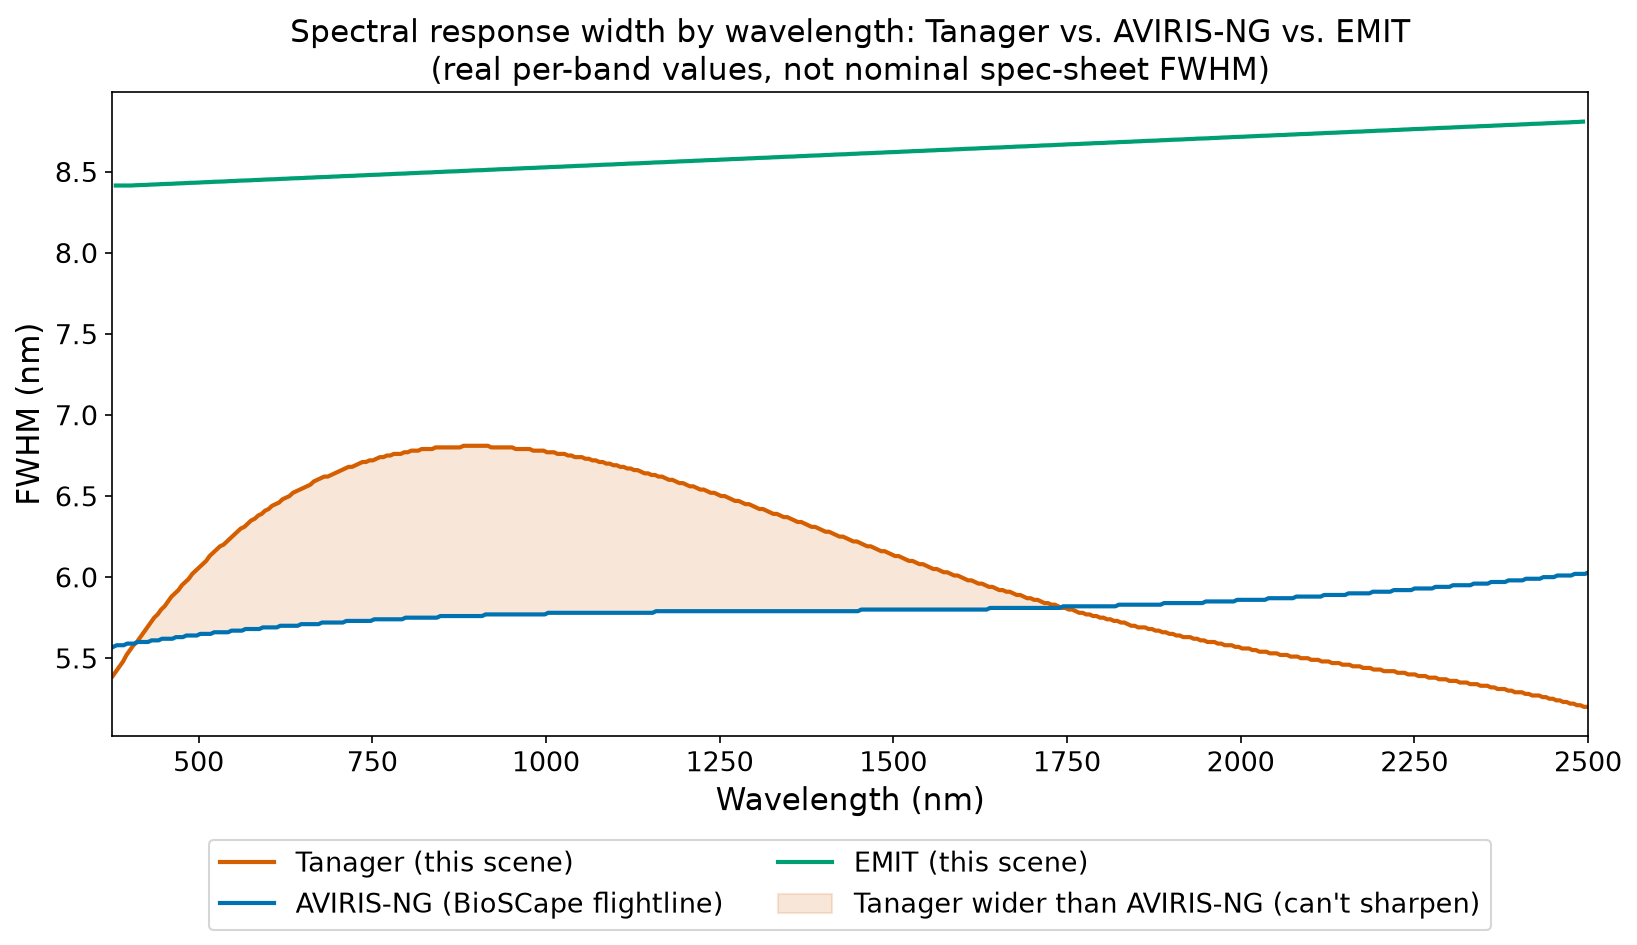
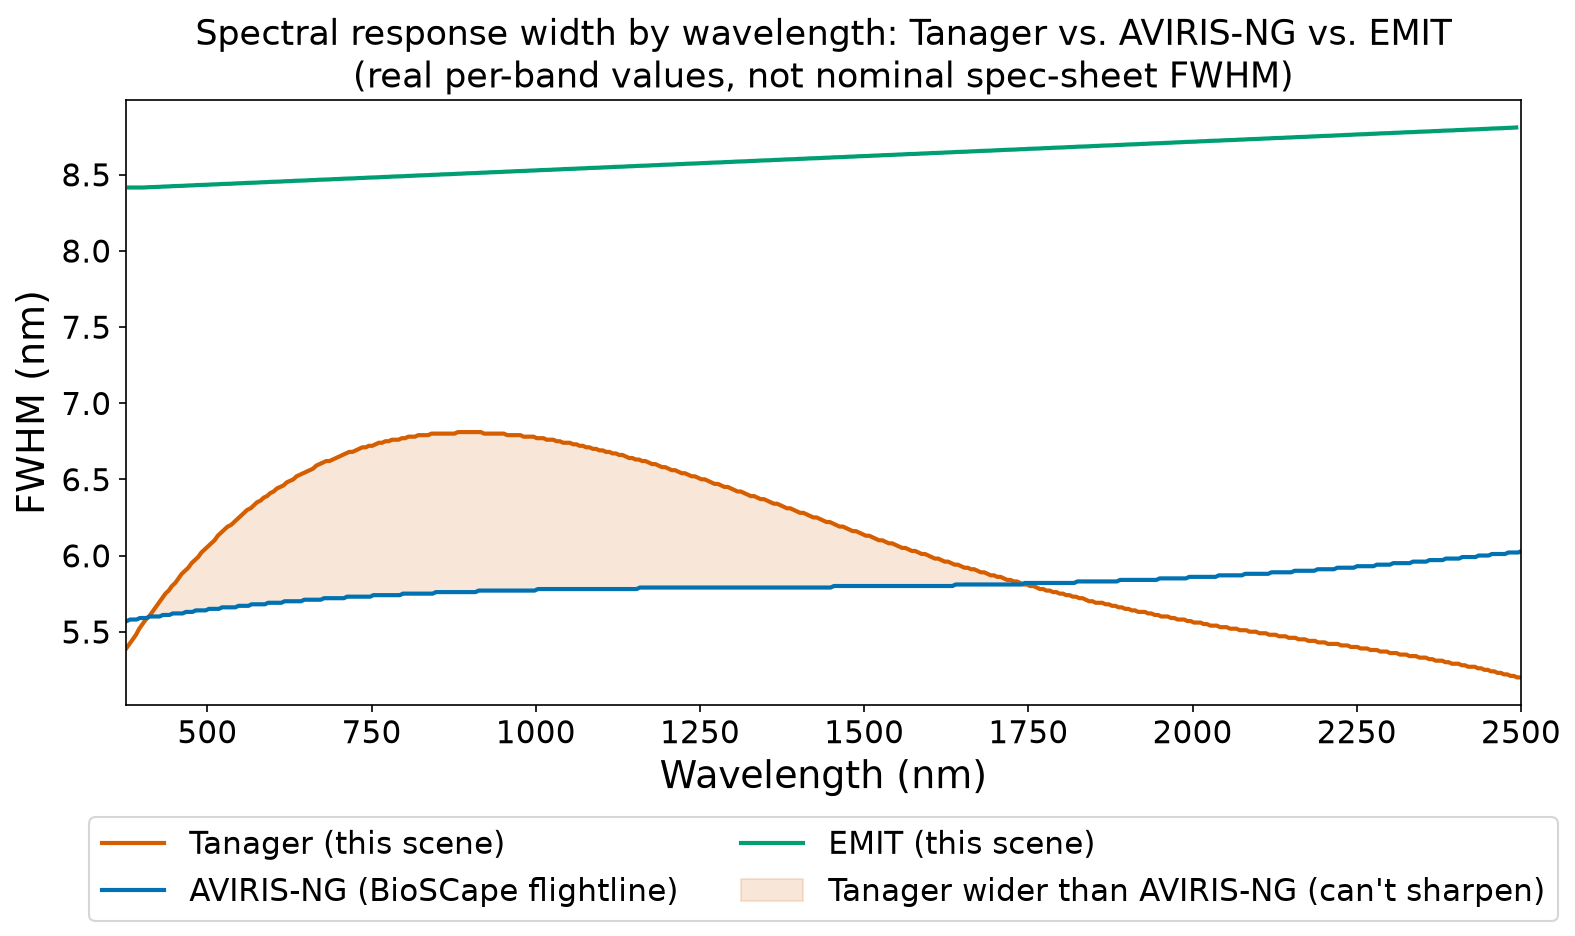
Drop LMA from California figure; bigger fonts; simpler north arrow
California trait maps (Figure 8) drop LMA (doesn't contribute to the
report's story) and move from a 1x5 row to a 2x2 grid of 4 traits,
larger and more legible. Bumped font sizes further across the FWHM and
California figures per Henry's review. Ternary map's north arrow
switched from a thick filled arrow to a simple solid triangle, after
comparing a few style options with Henry. Also removed the stale
word-count checklist item and the now-orphaned LMA aside in Section 3.

diff --git a/code/step13_california_sidebyside_maps.py b/code/step13_california_sidebyside_maps.py
@@ -1,7 +1,10 @@
-"""California SHIFT-model trait maps, all 5 traits side by side in one
-figure -- companion to step11 (Cape), but single-sensor (no EMIT/AVIRIS-NG
-counterpart exists for this scene), so this is a 1xN grid rather than a
-2-column comparison.
+"""California SHIFT-model trait maps, 4 traits in a 2x2 grid -- companion
+to step11 (Cape), but single-sensor (no EMIT/AVIRIS-NG counterpart exists
+for this scene).
+
+LMA was dropped (2026-08-28, Henry's review) -- it doesn't contribute to
+the report's overall story and isn't discussed anywhere else in the
+Cape/California comparison.
 
 No ground-truth check has been run for California in this project (see
 CLAUDE.md / report Section 7) -- unlike the Cape maps, there's no
@@ -17,7 +20,7 @@ not the absolute values.
 
 Veg-masked via step9's veg_mask (same fix as step11/12 -- apply the real
 NDVI-derived mask, not each trait's own diagnostic range_mask, so masking
-is consistent across all 5 panels).
+is consistent across all 4 panels).
 """
 import numpy as np
 import rasterio
@@ -37,7 +40,6 @@ TRAITS = [
     ("Calcium", "calcium", ("#f1eef6", "#74a9cf", "#023858")),
     ("Lignin", "lignin", ("#ffffd4", "#fe9929", "#8c2d04")),
     ("Cellulose", "cellulose", ("#fde725", "#21918c", "#440154")),
-    ("LMA", "LMA", ("#fcfdbf", "#f1605d", "#280b53")),
 ]
 
 
@@ -59,13 +61,11 @@ def load_masked(stem, veg_mask):
 
 def main():
     veg_mask = load_veg_mask()
-    ncols = 3
+    ncols = 2
     nrows = 2
-    fig, axes = plt.subplots(nrows, ncols, figsize=(6 * ncols, 5.2 * nrows))
-    fig.subplots_adjust(hspace=0.25, wspace=0.35, top=0.86)
+    fig, axes = plt.subplots(nrows, ncols, figsize=(7.5 * ncols, 6.2 * nrows))
+    fig.subplots_adjust(hspace=0.25, wspace=0.3, top=0.86)
     axes = axes.flatten()
-    for ax in axes[len(TRAITS):]:
-        ax.axis("off")
 
     for ax, (label, stem, colors) in zip(axes, TRAITS):
         arr = load_masked(stem, veg_mask)
@@ -84,10 +84,10 @@ def main():
         cmap.set_bad("lightgray")
         norm = BoundaryNorm([-0.5, 0.5, 1.5, 2.5], cmap.N)
         im = ax.imshow(binned, cmap=cmap, norm=norm)
-        ax.set_title(label, fontsize=16)
+        ax.set_title(label, fontsize=20)
         ax.set_xticks([]); ax.set_yticks([])
         cbar = fig.colorbar(im, ax=ax, fraction=0.046, pad=0.04, ticks=[0, 1, 2])
-        cbar.ax.set_yticklabels(["Low", "Med", "High"], fontsize=13)
+        cbar.ax.set_yticklabels(["Low", "Med", "High"], fontsize=16)
 
         print(f"{label}: n_valid={valid.size}, tercile cuts at {lo_cut:.2f}/{hi_cut:.2f} "
               f"(scene-relative, not an absolute/validated scale)")
@@ -96,7 +96,7 @@ def main():
         "California (SHIFT models) predicted trait patterns, 2025-04-07\n"
         "Relative Low/Med/High within this scene only -- no field validation for California in this project;\n"
         "gray = non-vegetated. Not a numerically validated product.",
-        fontsize=15,
+        fontsize=17,
     )
     out_path = FIGURES_DIR + "california_sidebyside_maps.png"
     fig.savefig(out_path, dpi=150, bbox_inches="tight")

diff --git a/code/step17_ternary_report_figure.py b/code/step17_ternary_report_figure.py
@@ -13,6 +13,7 @@ import matplotlib
 matplotlib.use("Agg")
 import matplotlib.pyplot as plt
 import matplotlib.patheffects
+from matplotlib.patches import Polygon
 
 TERNARY_TIF = (
     "/Volumes/Enspec/projects/BioScape/tanager_competition/trait_outputs/"
@@ -47,17 +48,21 @@ def main():
     ax.plot([margin_x, margin_x + bar_px], [bar_y, bar_y], color="black",
              linewidth=1, solid_capstyle="butt")
     ax.text(margin_x + bar_px / 2, bar_y - height * 0.015, f"{SCALE_BAR_M // 1000} km",
-            color="white", ha="center", va="bottom", fontsize=11, fontweight="bold",
+            color="white", ha="center", va="bottom", fontsize=14, fontweight="bold",
             path_effects=[matplotlib.patheffects.withStroke(linewidth=2.5, foreground="black")])
 
-    # North arrow: top-right.
+    # North arrow: simple solid triangle, top-right, with N below the base.
     arrow_x = width * 0.94
-    arrow_y_tail = height * 0.16
-    arrow_y_head = height * 0.04
-    ax.annotate("", xy=(arrow_x, arrow_y_head), xytext=(arrow_x, arrow_y_tail),
-                arrowprops=dict(facecolor="white", edgecolor="black", width=4, headwidth=12, headlength=10))
-    ax.text(arrow_x, arrow_y_tail + height * 0.015, "N", color="white", ha="center",
-            va="top", fontsize=13, fontweight="bold",
+    arrow_top = height * 0.04
+    arrow_base = height * 0.14
+    arrow_half_width = width * 0.02
+    triangle = Polygon(
+        [(arrow_x, arrow_top), (arrow_x - arrow_half_width, arrow_base), (arrow_x + arrow_half_width, arrow_base)],
+        closed=True, facecolor="white", edgecolor="black", linewidth=1.5,
+    )
+    ax.add_patch(triangle)
+    ax.text(arrow_x, arrow_base + height * 0.015, "N", color="white", ha="center",
+            va="top", fontsize=16, fontweight="bold",
             path_effects=[matplotlib.patheffects.withStroke(linewidth=2.5, foreground="black")])
 
     fig.savefig(OUT_PATH, dpi=150, bbox_inches="tight", pad_inches=0.05)

diff --git a/code/step16_fwhm_comparison.py b/code/step16_fwhm_comparison.py
@@ -65,15 +65,15 @@ def main():
     ax.fill_between(tan_wl, tan_fwhm, np.interp(tan_wl, av_wl, av_fwhm),
                      where=(tan_fwhm > np.interp(tan_wl, av_wl, av_fwhm)),
                      color="#d55e00", alpha=0.15, label="Tanager wider than AVIRIS-NG (can't sharpen)")
-    ax.set_xlabel("Wavelength (nm)", fontsize=15)
-    ax.set_ylabel("FWHM (nm)", fontsize=15)
+    ax.set_xlabel("Wavelength (nm)", fontsize=18)
+    ax.set_ylabel("FWHM (nm)", fontsize=18)
     ax.set_title(
         "Spectral response width by wavelength: Tanager vs. AVIRIS-NG vs. EMIT\n"
         "(real per-band values, not nominal spec-sheet FWHM)",
-        fontsize=15,
+        fontsize=17,
     )
-    ax.tick_params(axis="both", labelsize=13)
-    ax.legend(loc="upper center", bbox_to_anchor=(0.5, -0.14), ncol=2, fontsize=13)
+    ax.tick_params(axis="both", labelsize=15)
+    ax.legend(loc="upper center", bbox_to_anchor=(0.5, -0.16), ncol=2, fontsize=15)
     ax.set_xlim(376, 2500)
     fig.tight_layout()
     fig.savefig(OUT_PATH, dpi=150, bbox_inches="tight")

diff --git a/writeup/report_draft.md b/writeup/report_draft.md
@@ -156,10 +156,7 @@ carries its own known high bias, discussed above), but Calcium and
 Cellulose are also plausibly biologically linked: calcium cross-links
 pectin in the cell wall matrix via calcium-pectate bridges, alongside
 cellulose's fibrillar backbone, so pairing Calcium with Lignin/Nitrogen
-here is a defensible choice rather than an arbitrary one. LMA was
-dropped from the Cape analysis entirely — it produced physically
-impossible negative values across most of the scene (Section 7 explains
-the fix that solved this for California).
+here is a defensible choice rather than an arbitrary one.
 
 ![Ternary composite: Nitrogen (red) / Lignin (green) / Calcium (blue), Tanager, field-referenced ranges](figures/ternary_field_referenced.png)
 
@@ -295,9 +292,9 @@ chemistry (same platform as BioSCape, an entirely separate campaign and
 region) — to a Tanager scene over the SHIFT study area, using the same
 FWHM-matching pipeline built for the Cape.
 
-![California SHIFT-model predicted trait patterns, all 5 traits, Low/Med/High](figures/california_sidebyside_maps.png)
+![California SHIFT-model predicted trait patterns, all 4 traits, Low/Med/High](figures/california_sidebyside_maps.png)
 
-*Figure 8. California (SHIFT models), all 5 traits, relabeled to
+*Figure 8. California (SHIFT models), all 4 traits, relabeled to
 relative Low/Med/High terciles per trait (scene-relative, not a
 numeric/field-referenced scale) specifically so this reads as a pattern
 check rather than a validated product. Clear mountain/valley/
@@ -397,7 +394,7 @@ City, UT, USA (pp. 10-13).
 | 5 | Tanager vs. EMIT, density distributions | 4 | `figures/emit_vs_tanager_density.png` |
 | 6 | Tanager vs. EMIT, per-pixel difference | 4 | `figures/tanager_emit_difference_map.png` |
 | 7 | Nitrogen: Tanager vs. EMIT vs. AVIRIS-NG | 5 | `figures/nitrogen_tanager_emit_aviris.png` |
-| 8 | California, all 5 traits (Low/Med/High) | 7 | `figures/california_sidebyside_maps.png` |
+| 8 | California, all 4 traits (Low/Med/High) | 7 | `figures/california_sidebyside_maps.png` |
 
 All paths are relative to `writeup/`; every file above is committed to
 this repo under `writeup/figures/`.
@@ -412,8 +409,6 @@ this repo under `writeup/figures/`.
       Nitrogen/Lignin/Calcium) but kept as a caveated table row — weakest
       of the four kept traits, passing its own diagnostic range check on
       only 53% of vegetated pixels.
-- [ ] Tighten Section 1/8 for final word count once overall length target
-      is known.
 - [x] BioSCape/AVIRIS-NG citations and DOI added (Cardoso et al. 2025,
       Kovach et al. 2025) — pulled from
       `Manuscripts/bioscape_trait_map_V1_DAAC.docx`.
